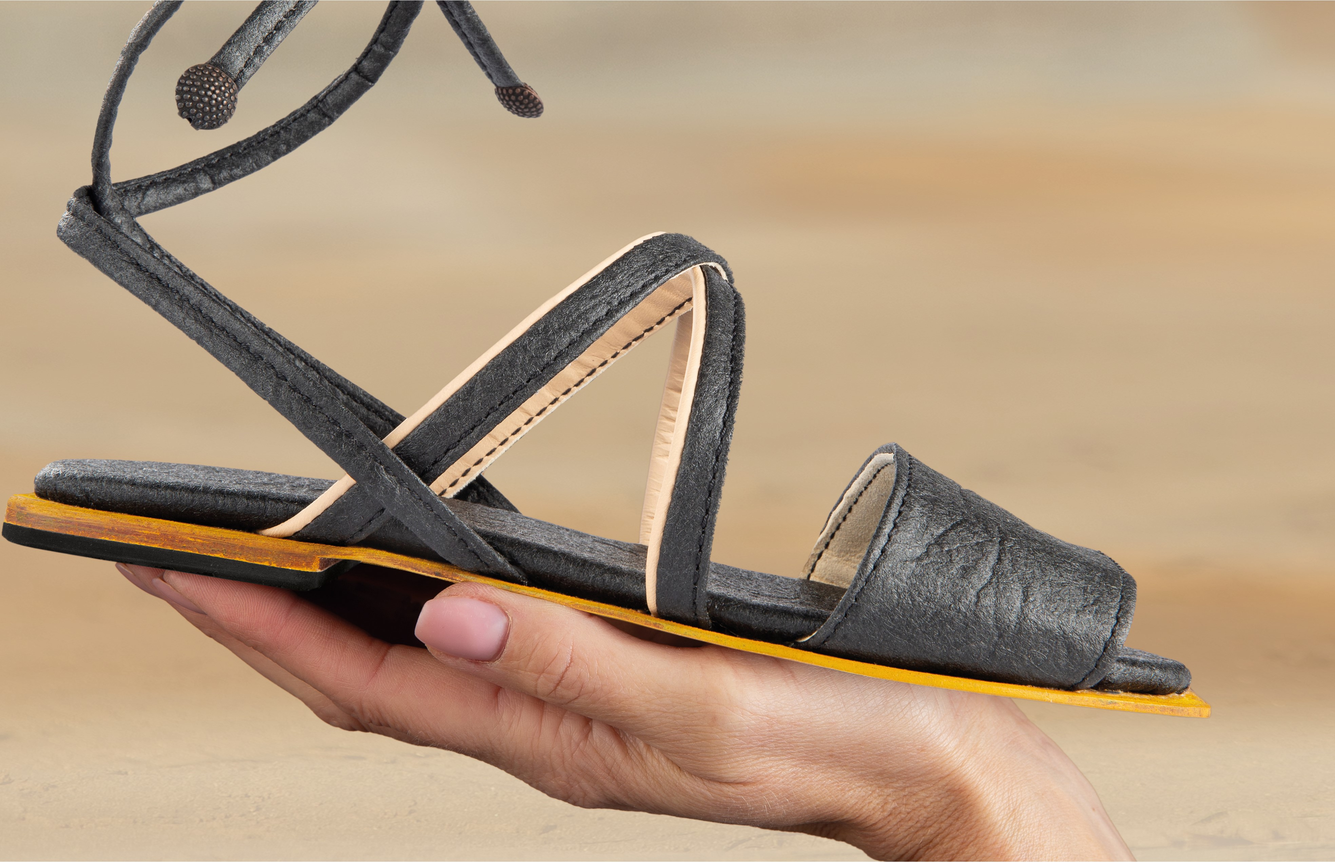
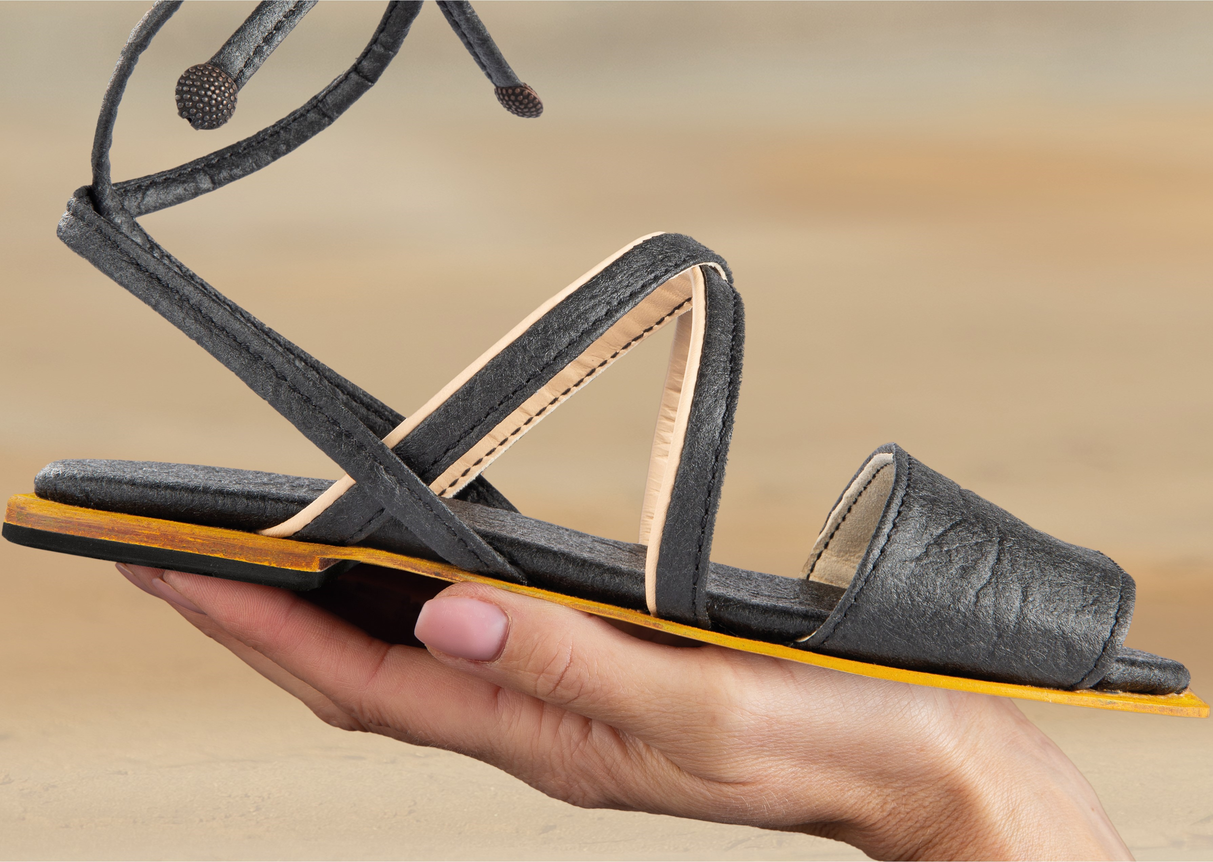
product preview image selection

diff --git a/Client/src/app/pages/common/product/product.ts b/Client/src/app/pages/common/product/product.ts
@@ -4,23 +4,33 @@ import {Svg} from '../svg/svg';
 
 @Component({
   selector: 'app-product',
-  imports: [
-    Svg
-  ],
+  imports: [Svg],
   templateUrl: './product.html',
 })
 export class Product implements OnInit {
   protected readonly route = inject(ActivatedRoute);
   protected productId: string | null = null;
+  protected readonly imageIdentifiers = ['a', 'b', 'c', 'd'];
   protected readonly selectedImageIdentifier = signal('a')
-  protected readonly imageUrl = computed(() => {
+  protected readonly availableImageIdentifiers = computed(() => {
+    return this.imageIdentifiers.filter(identifier => identifier !== this.selectedImageIdentifier());
+  })
+  protected readonly selectedImageUrl = computed(() => {
     return `assets/images/products/product-${this.productId}${this.selectedImageIdentifier()}.jpg`
   })
-  protected readonly imageUrlAlt = computed(() => {
+  protected readonly selectedImageAlt = computed(() => {
     return `product-${this.productId}${this.selectedImageIdentifier()}`
   })
 
   ngOnInit() {
     this.productId = this.route.snapshot.paramMap.get('id');
+  }
+
+  protected imageUrl(identifier: string) {
+    return `assets/images/products/product-${this.productId}${identifier}.jpg`
+  }
+
+  protected imageAlt(identifier: string) {
+    return `product-${this.productId}${identifier}`
   }
 }

diff --git a/Client/src/app/pages/common/product/product.html b/Client/src/app/pages/common/product/product.html
@@ -1,9 +1,20 @@
 @if (productId !== null) {
   <div class="relative">
-    <div class="absolute top-4 left-4 flex flex-col gap-2">
-      <app-svg [url]="'pineapple-leather'"></app-svg>
-      <app-svg [url]="'leather'"></app-svg>
-    </div>
-    <img [src]="imageUrl()" [alt]="imageUrlAlt()">
+    @if (selectedImageIdentifier() !== 'd') {
+      <div class="absolute top-4 left-4 flex flex-col gap-2">
+        <app-svg [identifier]="'pineapple-leather'"></app-svg>
+        <app-svg [identifier]="'leather'"></app-svg>
+      </div>
+    }
+    <img [src]="selectedImageUrl()" [alt]="selectedImageAlt()">
+  </div>
+  <div class="flex items-center justify-between mt-4 ml-1 mr-1">
+    @for (identifier of availableImageIdentifiers(); track identifier) {
+      <img
+        (click)="this.selectedImageIdentifier.set(identifier)"
+        [src]="imageUrl(identifier)"
+        [alt]="imageAlt(identifier)"
+        class="cursor-pointer hover:opacity-75 w-3/10">
+    }
   </div>
 }

diff --git a/Client/src/app/pages/home/home.html b/Client/src/app/pages/home/home.html
@@ -1,6 +1,6 @@
 <div class="relative">
   <img src="assets/images/hero-banner-mobile.jpg" alt="hero-banner">
-  <h2 class="absolute top-3 right-1 text-xs text-center text-shadow-lg/40 max-w-6/10">
+  <h2 class="absolute top-1/2 left-1/2 -translate-x-1/2 -translate-y-1/2 text-xs text-center text-shadow-lg/40 max-w-6/10">
     NARAVNA POLETNA OBUTEV IZ ANANASOVEGA USNJA TRAJNOSTNO IN ROČNO IZDELANA V SLOVENIJI
   </h2>
 </div>
@@ -23,7 +23,7 @@
         <h2>
           ANANASOVO USNJE
         </h2>
-        <h3>
+        <h3 class="text-(--white-primary)">
           fibre made from waste pineapple leaves
         </h3>
       </div>

diff --git a/Client/src/app/navigation/navigation.ts b/Client/src/app/navigation/navigation.ts
@@ -18,7 +18,7 @@ export class Navigation {
     const expanded = !this.navigationExpanded();
     this.navigationExpanded.set(expanded);
 
-    // Lock or unlock body scroll
+    // Lock or unlock the body scroll
     document.body.style.overflow = this.navigationExpanded()
       ? 'hidden'
       : 'auto';

diff --git a/Client/src/app/pages/common/svg/svg.ts b/Client/src/app/pages/common/svg/svg.ts
@@ -8,5 +8,5 @@ import { CommonModule } from '@angular/common';
   templateUrl: './svg.html',
 })
 export class Svg {
-  readonly url = input.required<string>();
+  readonly identifier = input.required<string>();
 }

diff --git a/Client/src/app/pages/common/svg/svg.html b/Client/src/app/pages/common/svg/svg.html
@@ -1,4 +1,4 @@
-@switch (url()) {
+@switch (identifier()) {
 
   @case('pineapple-leather') {
     <svg height="40px" width="40px" id="Layer_1" xmlns="http://www.w3.org/2000/svg"
